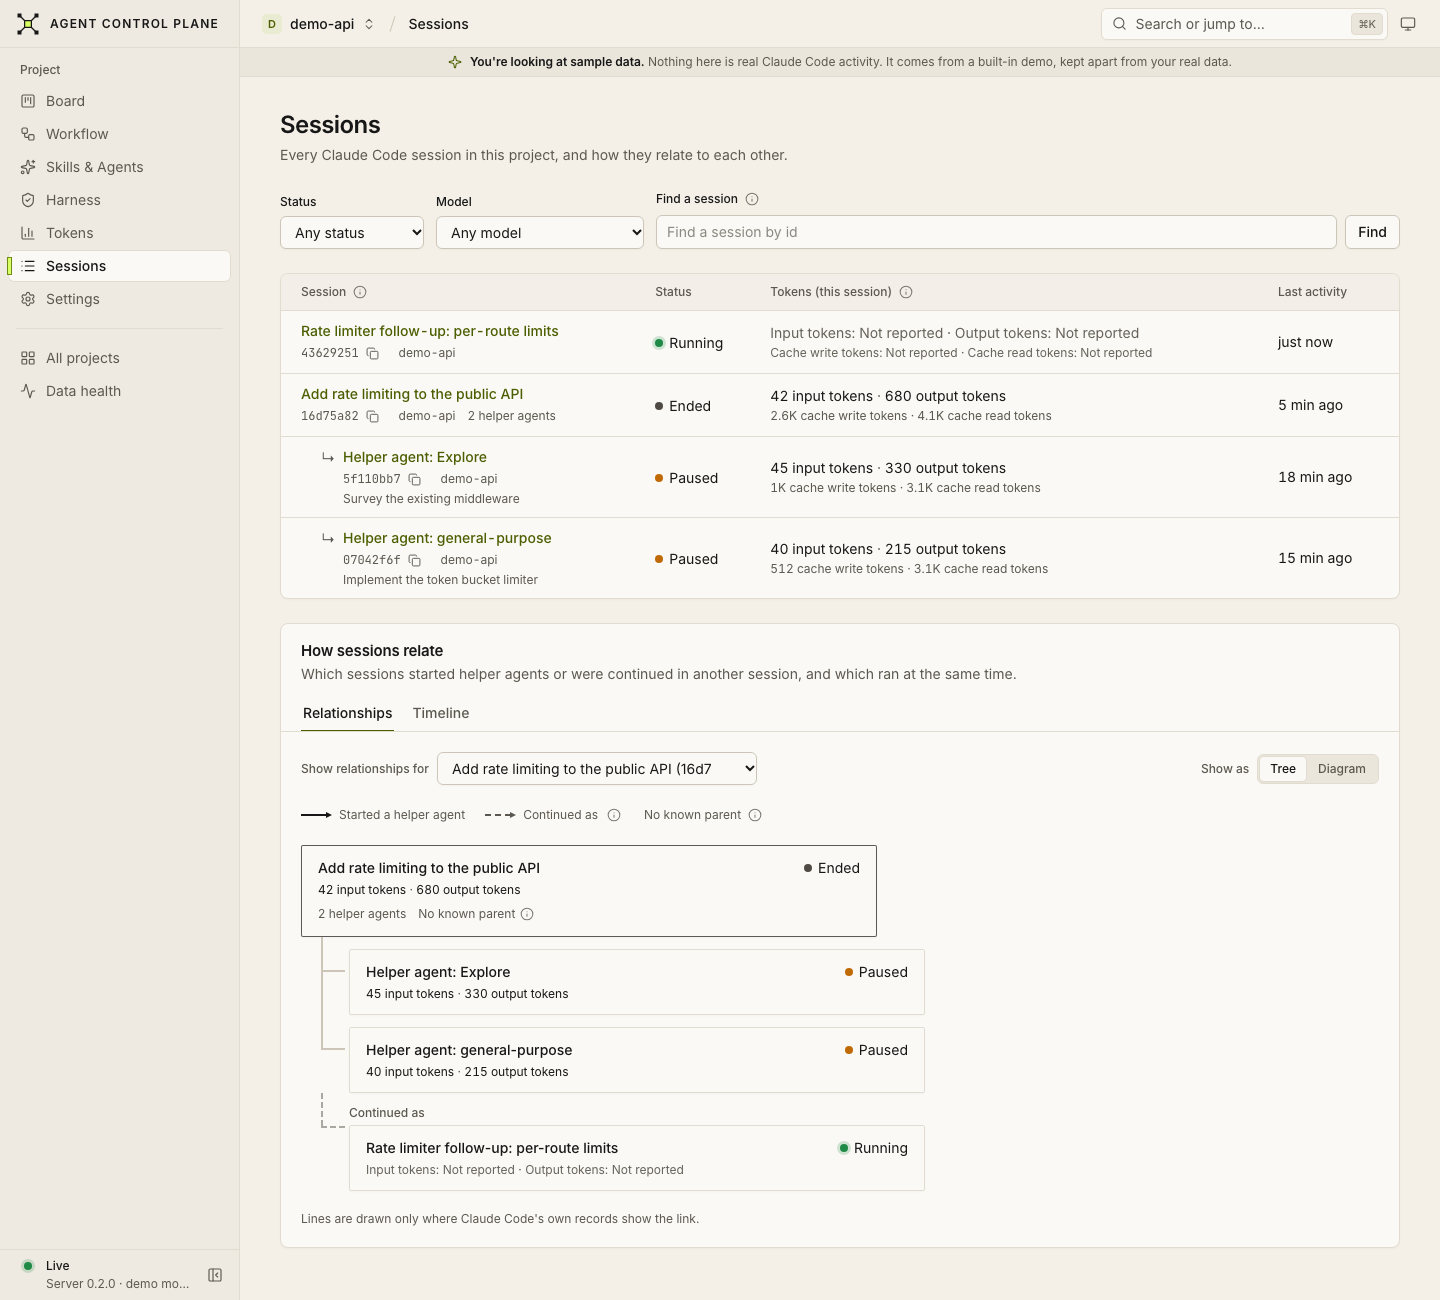
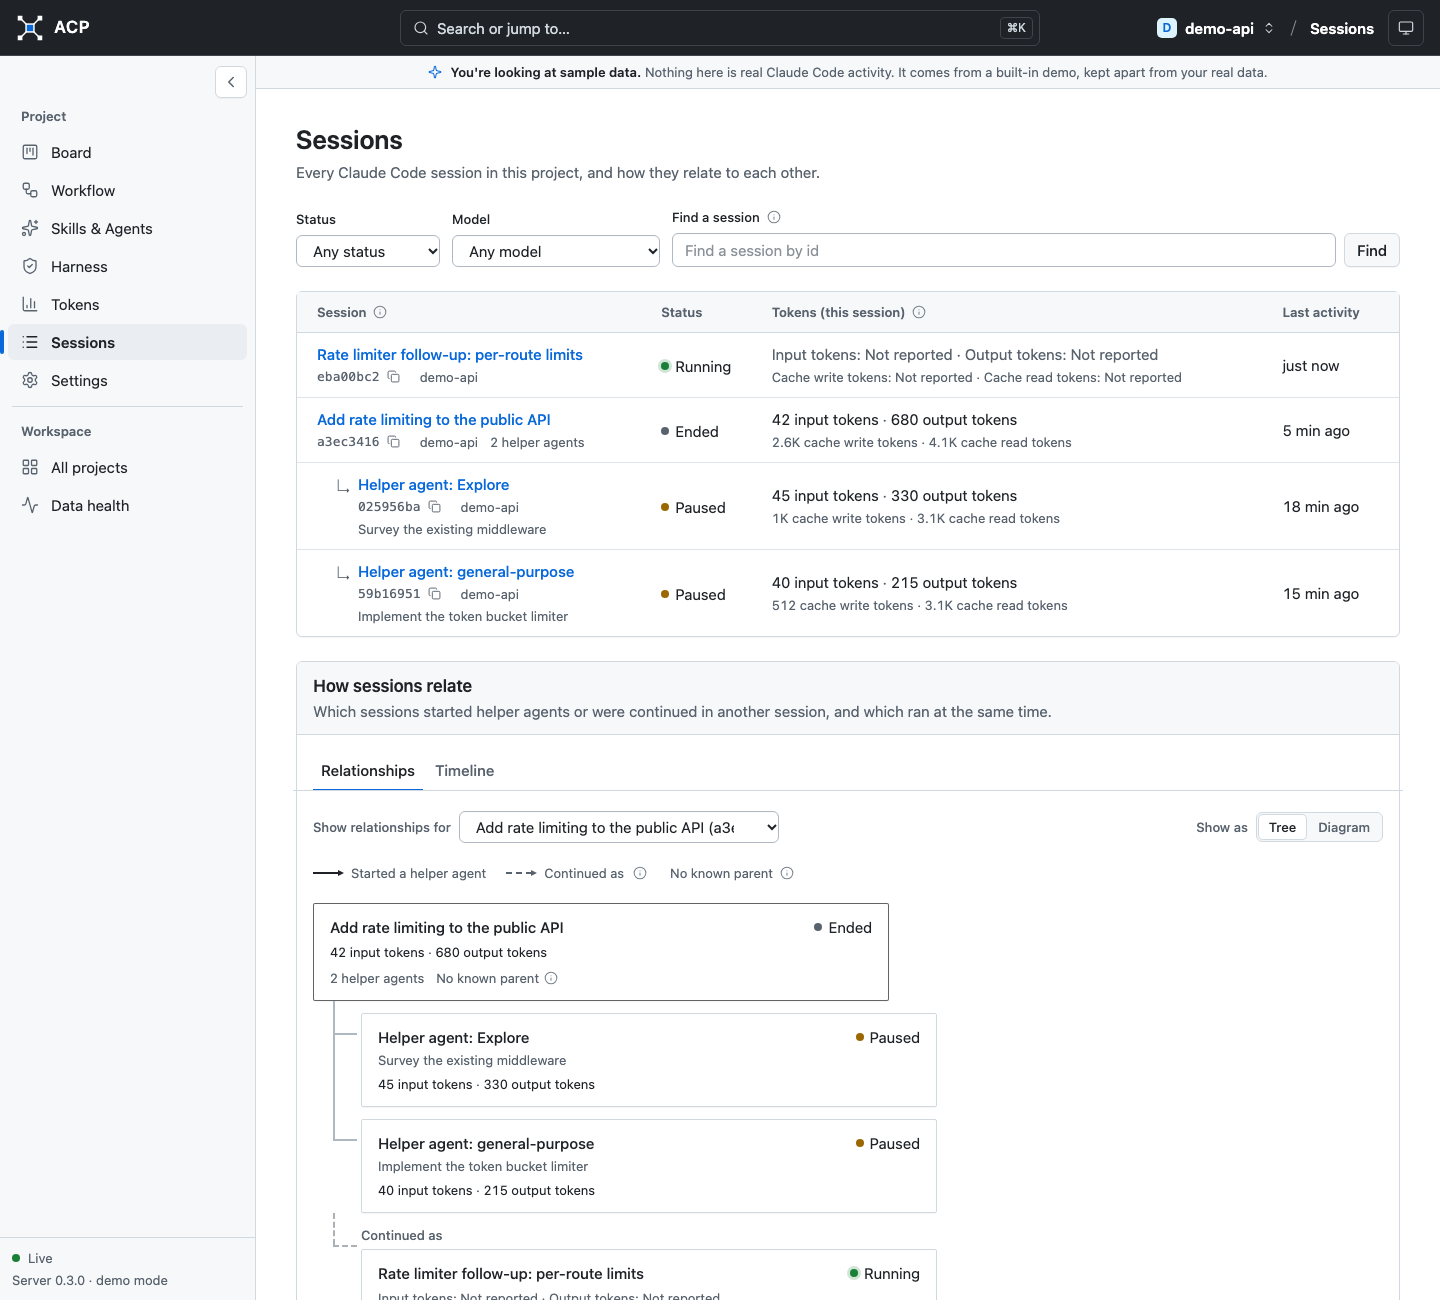
test(web): README screenshots of the 0.3.0 ticket page, Files changed, Conversation and GitHub settings
The gated README spec (ACP_README_SHOTS) gains four pictures for v0.3.0, all
on sample data: the ticket page ready for the final step (light and dark), the
Files changed review (light and dark), the Conversation timeline, and project
Settings with the GitHub flow strategy and a connected repository. A
withGitHub helper serves the synthetic project's setup, code host status and
local branches with page.route (GET only; nothing is created or pushed). The
existing pictures are re-taken in the GitHub-like look; every footer reads
"Server 0.3.0 · demo mode". Every frame was looked at: demo projects and the
synthetic web-app project only, no local paths. Part of the v0.3.0 release
prep (R-3).

Checks: format ✓ lint ✓ typecheck ✓ test 5,835/5,835 ✓ build ✓ e2e 111/111 ✓ readme shots 10/10 ✓

diff --git a/packages/web/e2e/readme-screenshots.spec.ts b/packages/web/e2e/readme-screenshots.spec.ts
@@ -1,6 +1,13 @@
 import { fileURLToPath } from 'node:url';
 import { expect, test, type Locator, type Page } from '@playwright/test';
-import { L_API, LOOP_TICKET_ID, PROJECT_ID } from './review-loop-fixtures.js';
+import {
+  CODE_HOST_PATH,
+  PROJECT_SETUP_PATH,
+  codeHost,
+  ghReviewScenario,
+  githubFlowStrategy,
+} from './github-fixtures.js';
+import { CSRF, L_API, LOOP_TICKET_ID, PROJECT_ID } from './review-loop-fixtures.js';
 import {
   demoApi,
   withBoard,
@@ -8,7 +15,8 @@ import {
   withLoopRun,
   withWorkflow,
 } from './shot-fixtures.js';
-import { WF_CSRF, agentFilesFixture } from './workflow-fixtures.js';
+import { fixtureProject } from './ticket-fixtures.js';
+import { WF_CSRF, agentFilesFixture, setupFixture } from './workflow-fixtures.js';
 
 /*
  * The README screenshots, saved to docs/images/. Runs only with ACP_README_SHOTS set and the
@@ -52,6 +60,35 @@ async function shoot(page: Page, name: string, o: ShotOptions = {}): Promise<voi
   }
   // The viewport, not fullPage: a full-page capture tears at the sticky top bar.
   await page.screenshot({ path: `${OUT}${name}.png` });
+}
+
+/**
+ * The synthetic project's setup with a GitHub flow strategy and a connected GitHub (`gh` ready),
+ * as github.spec.ts serves it: demo mode has no setup or code host of its own.
+ */
+async function withGitHub(page: Page): Promise<void> {
+  await page.route('**/api/control/token', (route) => route.fulfill({ json: { token: CSRF } }));
+  await page.route(`**${PROJECT_SETUP_PATH}`, (route) =>
+    route.fulfill({ json: { ...setupFixture(), branching: githubFlowStrategy() } }),
+  );
+  await page.route(`**${CODE_HOST_PATH}`, (route) => route.fulfill({ json: codeHost('ready') }));
+  // The project's local branches (GET only: the pictures never create one).
+  const names = ['develop', 'feature/WEB-21-saved-searches', 'main'];
+  await page.route(`**/api/projects/${PROJECT_ID}/branches`, (route) =>
+    route.fulfill({
+      json: {
+        current: 'main',
+        hasOrigin: true,
+        truncated: false,
+        branches: names.map((name, i) => ({
+          name,
+          commit: String(i + 1).repeat(40),
+          current: name === 'main',
+          onOrigin: name !== 'develop',
+        })),
+      },
+    }),
+  );
 }
 
 /** Three synthetic skill files for the Skills & Agents page. */
@@ -265,4 +302,60 @@ test('readme: skills and agent files', async ({ page }) => {
   await expect(h1(page)).toContainText('Skills & Agents');
   await expect(page.getByText('plan-tickets').first()).toBeVisible();
   await shoot(page, 'skills');
+});
+
+test('readme: the ticket page, ready for the final step', async ({ page }) => {
+  await withFixtureProject(page);
+  await withGitHub(page);
+  await withLoopRun(page, ghReviewScenario());
+  await page.goto(`/#/p/${PROJECT_ID}/tickets/${LOOP_TICKET_ID}`);
+  await expect(h1(page)).toContainText('Saved searches');
+  await expect(page.getByTestId('ticket-tab-comments')).toHaveAttribute('aria-selected', 'true');
+  await shoot(page, 'ticket');
+  await shoot(page, 'ticket-dark', { scheme: 'dark' });
+});
+
+test('readme: Files changed, the review', async ({ page }) => {
+  await withFixtureProject(page);
+  await withGitHub(page);
+  await withLoopRun(page, ghReviewScenario());
+  await page.goto(`/#/p/${PROJECT_ID}/tickets/${LOOP_TICKET_ID}?tab=files`);
+  await expect(h1(page)).toContainText('Saved searches');
+  await expect(page.getByTestId('ticket-tab-files')).toHaveAttribute('aria-selected', 'true');
+  await expect(page.getByText('src/search/api.ts').first()).toBeVisible();
+  await shoot(page, 'files-changed');
+  await shoot(page, 'files-changed-dark', { scheme: 'dark' });
+});
+
+test('readme: Conversation', async ({ page }) => {
+  await withFixtureProject(page);
+  await withGitHub(page);
+  await withLoopRun(page, ghReviewScenario());
+  await page.goto(`/#/p/${PROJECT_ID}/tickets/${LOOP_TICKET_ID}?tab=conversation`);
+  await expect(h1(page)).toContainText('Saved searches');
+  await expect(page.getByTestId('ticket-tab-conversation')).toHaveAttribute(
+    'aria-selected',
+    'true',
+  );
+  await shoot(page, 'conversation');
+});
+
+test('readme: project settings with GitHub and branching', async ({ page }) => {
+  await withFixtureProject(page);
+  await withGitHub(page);
+  await page.route(`**/api/projects/${PROJECT_ID}`, (route) =>
+    route.fulfill({ json: fixtureProject() }),
+  );
+  await page.route(`**/api/projects/${PROJECT_ID}/context-candidates`, (route) =>
+    route.fulfill({ json: [] }),
+  );
+  await page.goto(`/#/p/${PROJECT_ID}/settings`);
+  await expect(h1(page)).toContainText('Settings');
+  await expect(
+    page.getByTestId('settings-code-host').getByTestId('code-host-message'),
+  ).toBeVisible();
+  await expect(page.getByTestId('branches-list').getByText('develop')).toBeVisible();
+  const branching = page.getByTestId('settings-branching');
+  await expect(branching).toBeVisible();
+  await shoot(page, 'settings-github', { scrollTo: branching, height: 1300 });
 });
